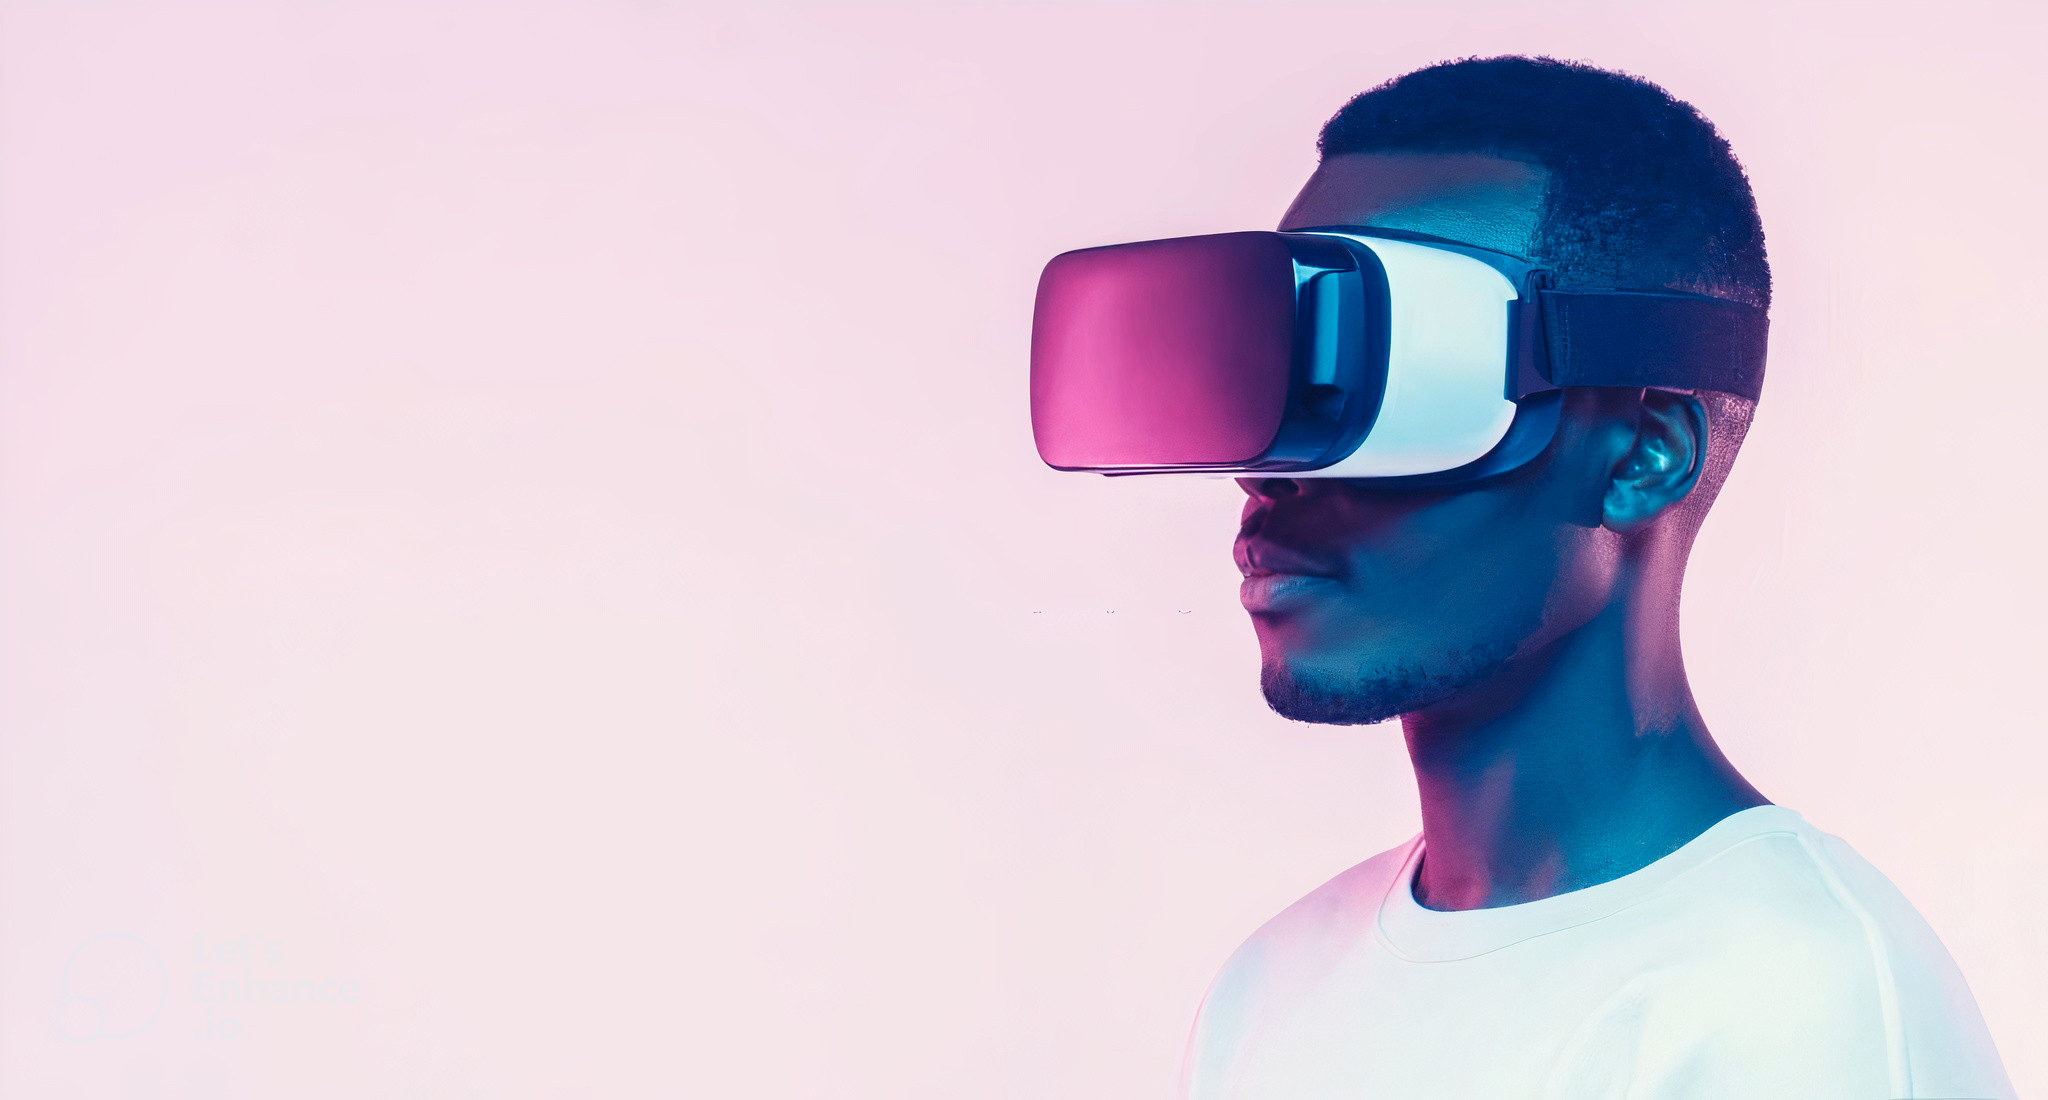
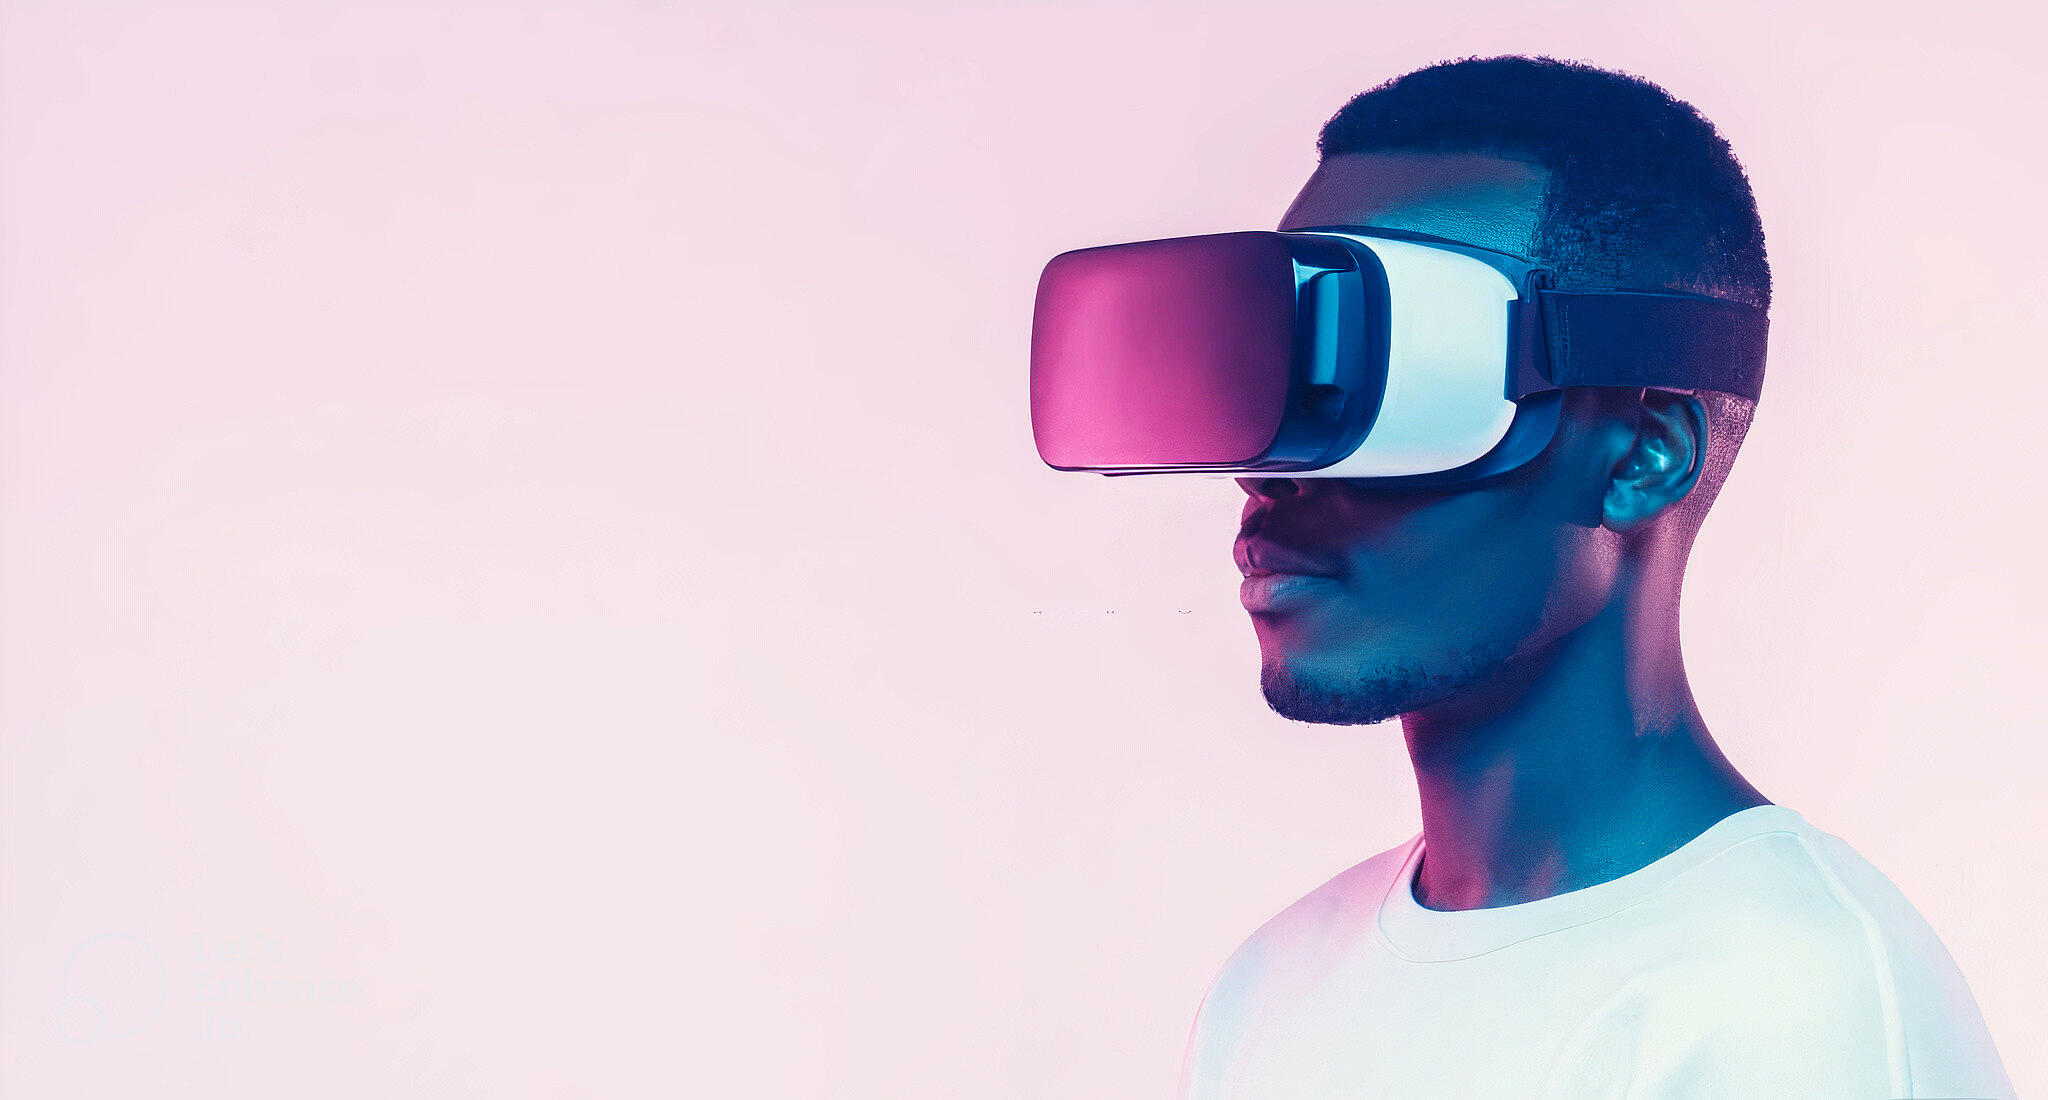
IMAGE Enhance Optimized picture quality for about page and landing page

diff --git a/index.html b/index.html
@@ -91,7 +91,7 @@
     <div class="container py-md-3">
       <div class="header-section text-center mx-auto">
         <h6 class="sub-title text-capitalize">Join the Wave</h6>
-        <img src="assets/images/gl12.jpg" class="img-fluid" alt="">
+        <img src="assets/images/gl12.png" class="img-fluid" alt="">
         <p class="my-3"> Boat Island VR (BIVR), is a metaverse community for boats and islanders. The first multiplayer
           virtual reality platform for creators.
           We are building a meta and virtual space where islanders(fans) can visit, connect with eachother and enjoy
@@ -103,20 +103,32 @@
         <div class="container py-lg-3">
           <div class="row">
             <div class="col-md-12">
-              <div class="owl-three owl-carousel owl-theme logo-view">
+              <div class="owl-three owl-carousel owl-theme">
                 <div class="item">
-                  <img src="assets/images/logo1.jpg" alt="company-logo" class="img-fluid">
+                  <img src="assets/images/s1.jpg" alt="paintball arena" class="img-fluid">
                 </div>
                 <div class="item">
-                  <img src="assets/images/logo2.jpg" alt="company-logo" class="img-fluid">
+                  <img src="assets/images/s2.jpg" alt="boardgame room" class="img-fluid">
 
                 </div>
                 <div class="item">
-                  <img src="assets/images/logo3.jpg" alt="company-logo" class="img-fluid">
+                  <img src="assets/images/s3.jpg" alt="game lobby" class="img-fluid">
 
                 </div>
                 <div class="item">
-                  <img src="assets/images/logo4.jpg" alt="company-logo" class="img-fluid">
+                  <img src="assets/images/s4.jpg" alt="cruise boat" class="img-fluid">
+
+                </div>
+                <div class="item">
+                  <img src="assets/images/s5.jpg" alt="concert arena" class="img-fluid">
+
+                </div>
+                <div class="item">
+                  <img src="assets/images/s6.jpg" alt="club house" class="img-fluid">
+
+                </div>
+                <div class="item">
+                  <img src="assets/images/s7.jpg" alt="game menu" class="img-fluid">
 
                 </div>
               </div>
@@ -205,7 +217,7 @@
             <div class="col-lg-6 col-md-12 column pl-lg-5 column4 mt-lg-0 mt-5">
               <h3 style="display: inline-block"><img class="img-fluid" src="assets/images/logo.png" alt=""
                   style="height:25px" />
-                <img class="img-fluid" src="assets/images/logo-txt.png" alt="" />
+                <img class="img-fluid" src="assets/images/logo-txt.png" alt="" style="height:25px"/>
               </h3>
 
               <p> Boat Island VR (BIVR), is a metaverse community for boats and islanders. The first multiplayer
@@ -220,8 +232,7 @@
         </div>
         <div class="d-flex below-section justify-content-between align-items-center pt-4 mt-5">
           <div class="columns text-lg-left text-center">
-            <p>&copy; 2022 The Boat Island. All rights reserved | Designed by <a title='Potter Incorporated'
-                href="https://potterincorporated.com/">Potter Inc&trade;</a>
+            <p title="Designed by Potter Inc&trade;">&copy; 2022 The Boat Island. All rights reserved
             </p>
           </div>
           <div class="columns-2 mt-lg-0 mt-3">

diff --git a/about.html b/about.html
@@ -66,7 +66,7 @@
           </div>
           <div class="cwp4-two row">
             <div class="cwp4-image col-lg-6 pl-lg-5 mt-lg-0 mt-5">
-              <img src="assets/images/about1.png" class="img-curve img-fluid" alt="" />
+              <img src="assets/images/about1.jpg" class="img-curve img-fluid" alt="" />
             </div>
             <div class="cwp4-text col-lg-6">
               <h3>What Is Boat Island VR (BIVR)</h3>
@@ -103,7 +103,7 @@
               </ul>
             </div>
             <div class="cwp4-image col-lg-6 pl-lg-5 mt-lg-0 mt-5">
-              <img src="assets/images/about2.png" class="img-curve img-fluid" alt="" />
+              <img src="assets/images/about2.jpg" class="img-curve img-fluid" alt="" />
             </div>
           </div>
         </div>
@@ -159,33 +159,6 @@
         </div>
       </div>
     </section>
-    <!-- customers Section -->
-    <!-- <section class="w3l-customers pb-5">
-      <div class="container py-lg-3">
-        <div class="row">
-          <div class="col-md-12">
-            <div class="owl-three owl-carousel owl-theme logo-view">
-              <div class="item">
-                <img src="assets/images/logo1.jpg" alt="company-logo" class="img-fluid">
-              </div>
-              <div class="item">
-                <img src="assets/images/logo2.jpg" alt="company-logo" class="img-fluid">
-
-              </div>
-              <div class="item">
-                <img src="assets/images/logo3.jpg" alt="company-logo" class="img-fluid">
-
-              </div>
-              <div class="item">
-                <img src="assets/images/logo4.jpg" alt="company-logo" class="img-fluid">
-
-              </div>
-            </div>
-          </div>
-        </div>
-      </div>
-    </section> -->
-    <!-- //customers Section -->
   </main>
 
   <footer>
@@ -218,9 +191,9 @@
               </div>
             </div>
             <div class="col-lg-6 col-md-12 column pl-lg-5 column4 mt-lg-0 mt-5">
-              <h3 style="display: inline-block"><img class="img-fluid" src="assets/images/logo.png" alt=""
+              <h3 style="display: inline-block"><img class="img-fluid" src="assets/images/logo.png" alt="bivr"
                   style="height:25px" />
-                <img class="img-fluid" src="assets/images/logo-txt.png" alt="" />
+                <img class="img-fluid" src="assets/images/logo-txt.png" alt="boat island" style="height: 25px" />
               </h3>
 
               <p> Boat Island VR (BIVR), is a metaverse community for boats and islanders. The first multiplayer
@@ -235,7 +208,7 @@
         </div>
         <div class="d-flex below-section justify-content-between align-items-center pt-4 mt-5">
           <div class="columns text-lg-left text-center">
-            <p>&copy; 2022 The Boat Island. All rights reserved | Designed by <a title='Potter Incorporated'
+            <p title="Designed by Potter Inc&trade;">&copy; 2022 The Boat Island. All rights reserved
                 href="https://potterincorporated.com/">Potter Inc&trade;</a>
             </p>
           </div>

diff --git a/assets/css/style-starter.css b/assets/css/style-starter.css
@@ -10901,6 +10901,7 @@ h2.resp-accordion:first-child {
  * Copyright 2013-2018 David Deutsch
  * Licensed under: SEE LICENSE IN https://github.com/OwlCarousel2/OwlCarousel2/blob/master/LICENSE
  */
+ .owl-theme .item{margin: 10px}
 .owl-carousel,
 .owl-carousel .owl-item {
   -webkit-tap-highlight-color: transparent;
